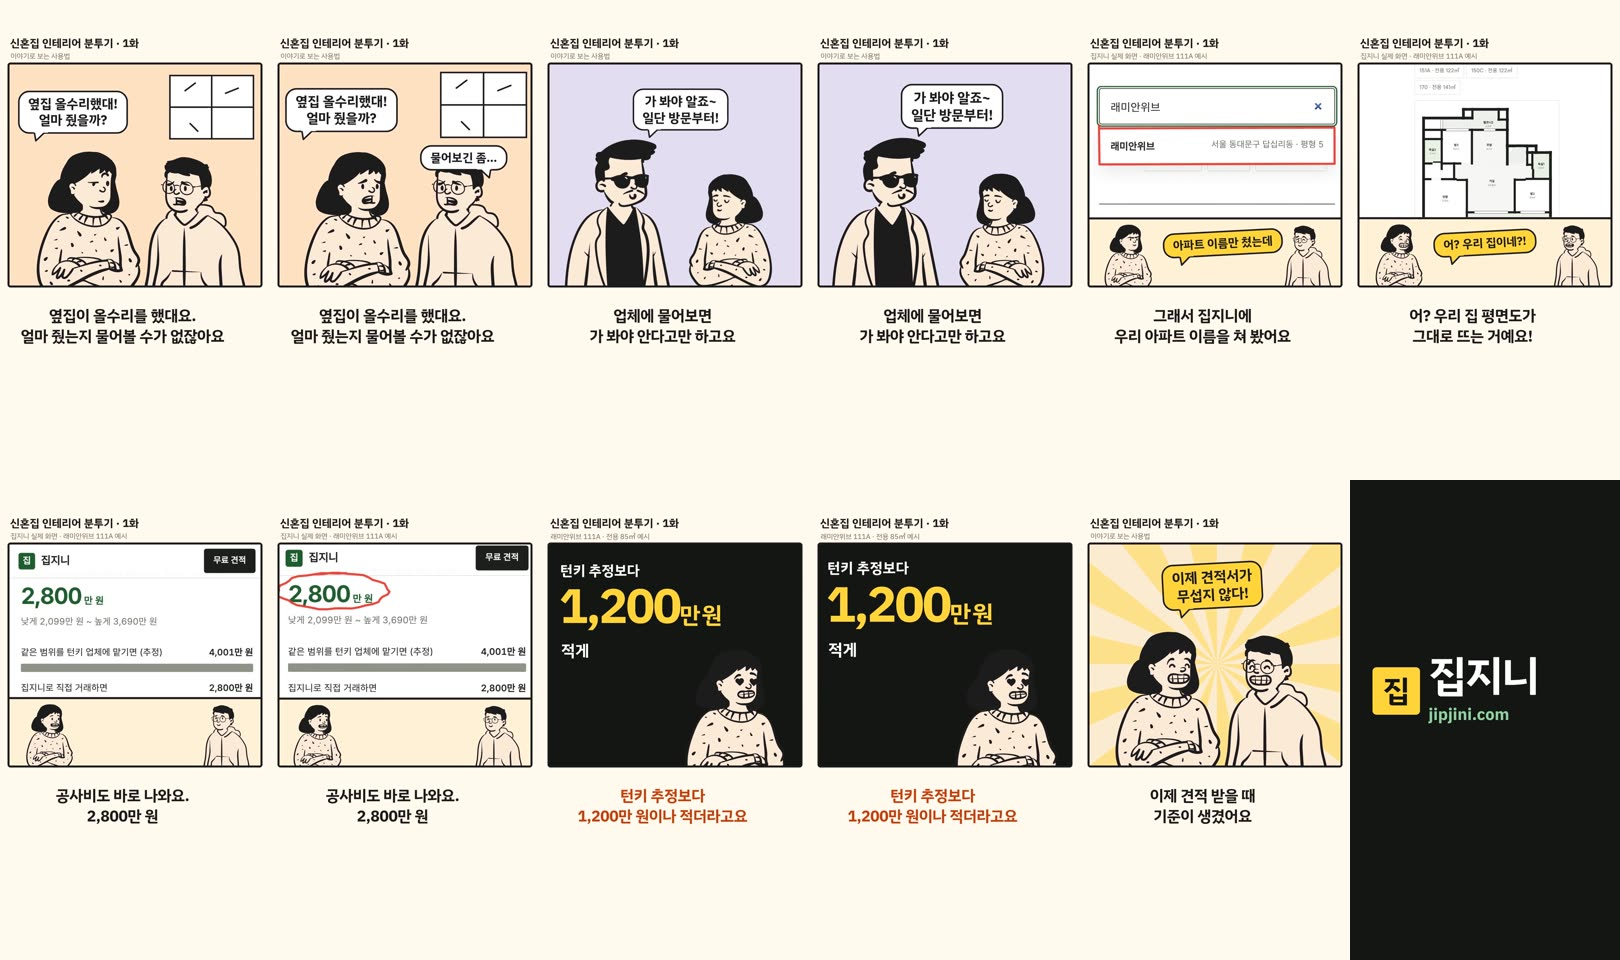
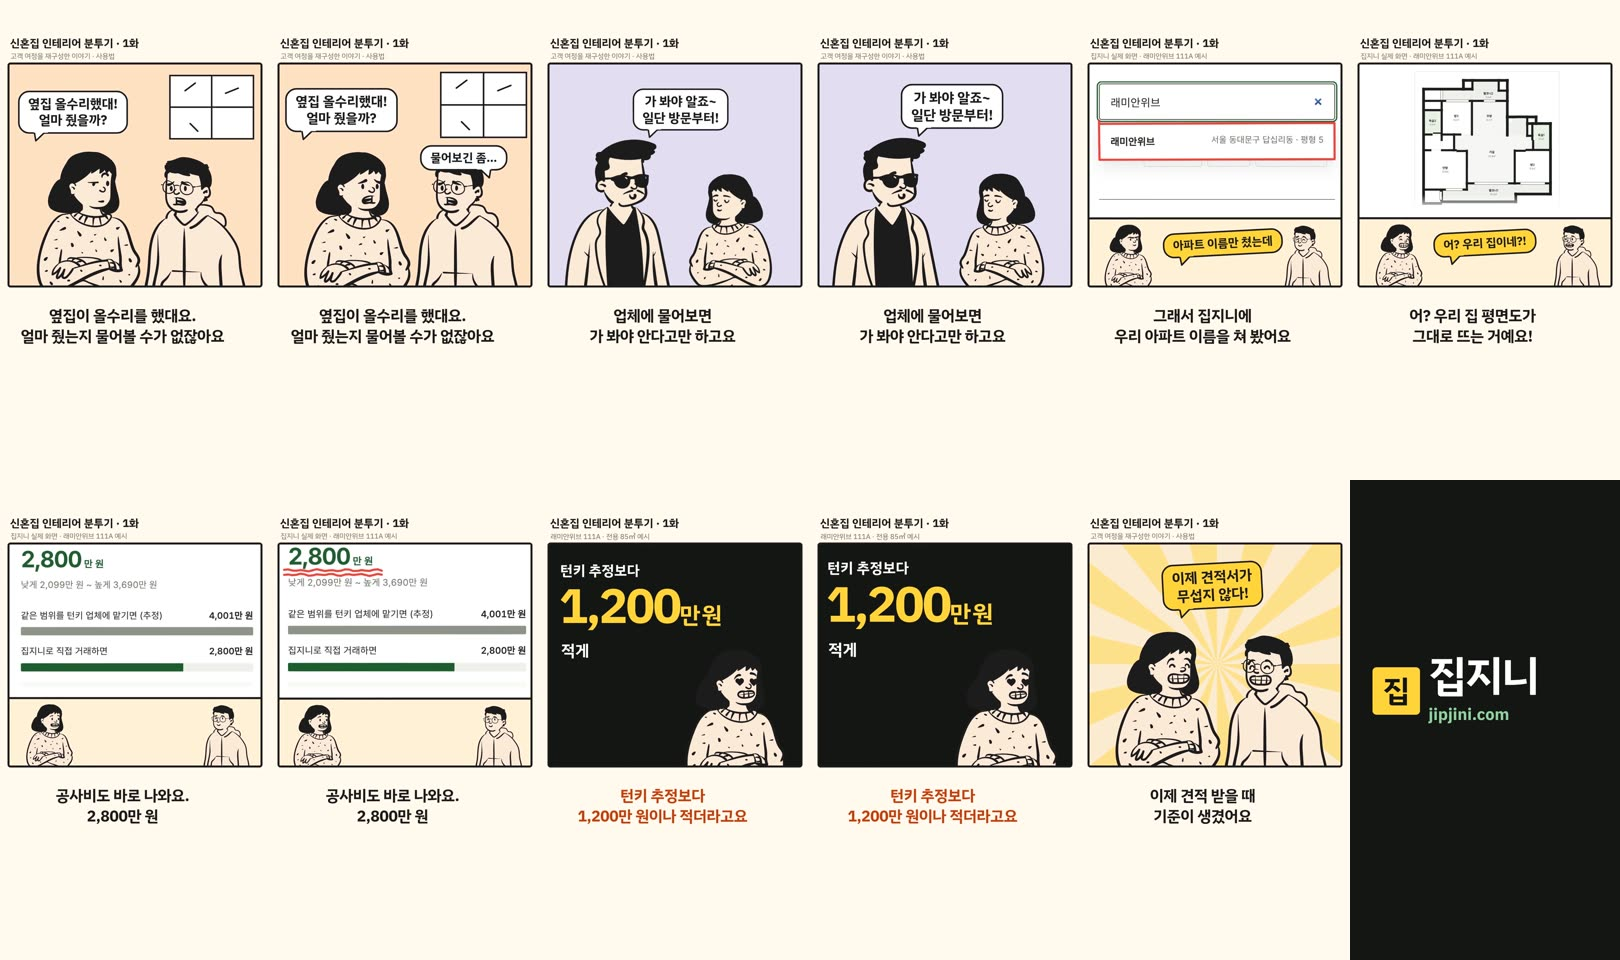
웹툰 1화 검수 반영(증거 화면 자르는 자리·아래 흐림·표기), 눈 검사 통과 기록 (#409)
Claude-Session: https://claude.ai/code/session_01EWAutn6yu8RhtVwgyvFZah

diff --git a/tools/mk/video/src/toon/ep1.tsx b/tools/mk/video/src/toon/ep1.tsx
@@ -10,7 +10,7 @@ import {punchZ} from '../fx';
 import narr from './t1_narr.json';
 
 const EX = '집지니 실제 화면 · 래미안위브 111A 예시';
-export const ep1: Ep = {id: 'ep1', series: '신혼집 인테리어 분투기 · 1화', tag: '이야기로 보는 사용법', pre: 't1_', narr, turn: 3, cuts: [
+export const ep1: Ep = {id: 'ep1', series: '신혼집 인테리어 분투기 · 1화', tag: '고객 여정을 재구성한 이야기 · 사용법', pre: 't1_', narr, turn: 3, cuts: [
   {gap: 4, say: 'k_eolma', render: (lf, f) => <Panel bg="#FFE1C4" f={f} lf={lf}>
     <svg width={PW} height={900} style={{position: 'absolute'}}><rect x={640} y={50} width={330} height={250} fill="#fff" stroke={LINE} strokeWidth={6} /><path d="M640 175 L970 175 M805 50 L805 300" stroke={LINE} strokeWidth={6} />
       {lf > 20 && <g fill="none" stroke={LINE} strokeWidth={6} strokeLinecap="round"><path d="M700 110 l40 -30 M860 120 l50 -20 M720 240 l30 30" /></g>}</svg>
@@ -22,11 +22,11 @@ export const ep1: Ep = {id: 'ep1', series: '신혼집 인테리어 분투기 · 
     <P who={WIFE} body="Sweater" face="Contempt" x={520} y={420} w={420} flip />
     <Bubble text={'가 봐야 알죠~\n일단 방문부터!'} x={330} y={90} f={lf} at={8} size={54} /></Panel>},
   {gap: 4, tag: EX, sfx: [['key3', 4, 0.3], ['key3', 12, 0.3], ['key3', 20, 0.3]], render: (lf, f) => <Panel bg="#F3EFE6" f={f} lf={lf}>
-    <ProofCut a={{img: 'tut/cost/05.jpg', s: 2.5, mark: [27, 448, 378, 50], kind: 'box'}} lf={lf} wife="Driven" hus="Calm" say="아파트 이름만 쳤는데" sayAt={40} /></Panel>},
+    <ProofCut a={{img: 'tut/cost/05.jpg', s: 2.5, mark: [27, 448, 378, 50], kind: 'box'}} dy={-18} lf={lf} wife="Driven" hus="Calm" say="아파트 이름만 쳤는데" sayAt={40} /></Panel>},
   {gap: 6, tag: EX, say: 'k_ige_doene', sfx: [['tada', 2, 0.45]], render: (lf, f) => <Panel bg="#F3EFE6" f={f} lf={lf}>
-    <ProofCut a={{img: 'tut/cost/08.jpg', s: 2.5}} zoom={0.62} lf={lf} wife="SmileBig" hus="SmileTeeth" say="어? 우리 집이네?!" sayAt={10} /></Panel>},
+    <ProofCut a={{img: 'tut/cost/08.jpg', s: 2.5}} zoom={0.62} dy={-185} lf={lf} wife="SmileBig" hus="SmileTeeth" say="어? 우리 집이네?!" sayAt={10} /></Panel>},
   {gap: 6, tag: EX, sfx: [['mk1', 16, 0.5]], render: (lf, f) => <Panel bg="#F3EFE6" f={f} lf={lf}>
-    <ProofCut a={{img: 'tut/cost/09.jpg', s: 2.5, mark: [14, 62, 160, 42], kind: 'circle'}} lf={lf} wife="SmileTeeth" hus="Smile" /></Panel>},
+    <ProofCut a={{img: 'tut/cost/09.jpg', s: 2.5, mark: [16, 62, 156, 44], kind: 'underline'}} dy={-146} lf={lf} wife="SmileTeeth" hus="Smile" /></Panel>},
   {gap: 8, say: 'k_saratda', accent: true, tag: '래미안위브 111A · 전용 85㎡ 예시', sfx: [['drumroll', 3, 0.4], ['thud', 30, 0.65]], render: (lf, f) => <Panel bg={INK} f={f} lf={lf}>
     <div style={{position: 'absolute', left: 50, top: 70, fontSize: 56, fontWeight: 700, color: '#fff'}}>턴키 추정보다</div>
     {lf >= 30 && <div style={{position: 'absolute', left: 46, top: 150, fontSize: 190, fontWeight: 700, color: YEL, letterSpacing: -8, lineHeight: 1.1, transform: `scale(${punchZ(lf - 30, 1.08)})`, transformOrigin: 'left center'}}>1,200<span style={{fontSize: 90}}>만 원</span></div>}

diff --git a/tools/mk/video/src/Toon.tsx b/tools/mk/video/src/Toon.tsx
@@ -13,9 +13,11 @@ const END = 72;
 const plan = (ep: Ep) => { let t = 0; const from: number[] = []; ep.cuts.forEach((c, k) => { from.push(t); t += ep.narr[String(k + 1)].dur + (c.gap ?? 4); }); return {from, endAt: t}; };
 export const epLen = (ep: Ep) => plan(ep).endAt + END;
 
+// dy: 위쪽 자르는 선이 글자 줄에 걸리지 않게 화면을 위아래로 옮김
 // 증거 컷: 위는 집지니 실제 화면, 아래 띠는 부부 반응(화면 글자를 가리지 않게 자리를 나눔 — 검수 3번)
-export const ProofCut: React.FC<{a: Shot; lf: number; wife: string; hus: string; say?: string; sayAt?: number; band?: string; zoom?: number}> = ({a, lf, wife, hus, say, sayAt = 18, band = '#FFF1D6', zoom = 1}) => <>
-  <div style={{position: 'absolute', left: 0, top: 0, width: PW, height: 610, overflow: 'hidden', background: '#fff'}}><div style={{position: 'absolute', left: 0, top: 0, width: PW, transformOrigin: '50% 0', transform: `scale(${zoom})`}}><Proof a={a} lf={lf} /></div></div>
+export const ProofCut: React.FC<{a: Shot; lf: number; wife: string; hus: string; say?: string; sayAt?: number; band?: string; zoom?: number; dy?: number}> = ({a, lf, wife, hus, say, sayAt = 18, band = '#FFF1D6', zoom = 1, dy = 0}) => <>
+  <div style={{position: 'absolute', left: 0, top: 0, width: PW, height: 610, overflow: 'hidden', background: '#fff'}}><div style={{position: 'absolute', left: 0, top: 0, width: PW, transformOrigin: '50% 0', transform: `scale(${zoom}) translateY(${dy}px)`}}><Proof a={a} lf={lf} /></div>
+    <div style={{position: 'absolute', left: 0, right: 0, bottom: 0, height: 90, background: 'linear-gradient(rgba(255,255,255,0), #fff 70%)'}} /></div>
   <div style={{position: 'absolute', left: 0, top: 610, width: PW, height: PH - 610, background: band, borderTop: `8px solid ${LINE}`}} />
   <P who={WIFE} body="Sweater" face={wife} x={40} y={628} w={235} /><P who={HUS} body="Hoodie" face={hus} x={745} y={628} w={235} flip />
   {say && <Bubble text={say} x={300} y={670} f={lf} at={sayAt} size={46} shout />}
